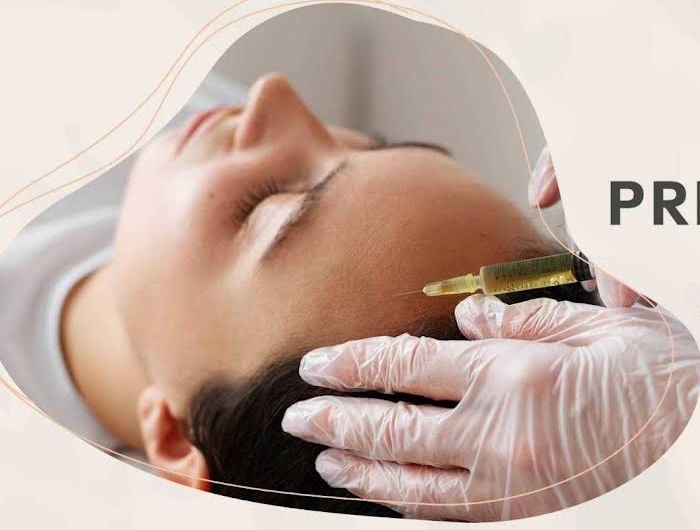
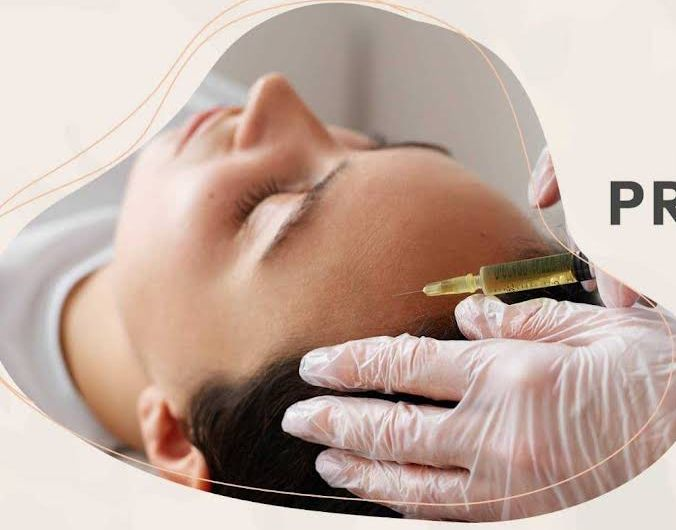
Step 2: treatments section with animated cards and hair patch before/after

diff --git a/index.html b/index.html
@@ -67,14 +67,32 @@ h1,h2,h3{font-family:var(--serif);font-weight:500;line-height:1.08;margin:0}
 .feat{display:grid;grid-template-columns:1fr 1fr;gap:1rem}
 .feat div{background:#fff;border:1px solid var(--line);border-radius:18px;padding:1.1rem 1.2rem;transition:.3s}.feat div:hover{transform:translateY(-4px);border-color:var(--mag);box-shadow:0 18px 34px -24px rgba(194,20,123,.6)}
 .feat b{display:block;font-family:var(--serif);font-size:1.12rem;font-weight:600;margin-bottom:.15rem}.feat span{font-size:.86rem;color:var(--mut)}
+/* treatments */
+.svh{display:flex;justify-content:space-between;align-items:end;gap:2rem;flex-wrap:wrap;margin-bottom:2.6rem}.svh p{color:var(--mut);max-width:380px;margin:0}
+.grid{display:grid;grid-template-columns:repeat(6,1fr);gap:1.2rem}
+.svc{position:relative;display:block;grid-column:span 2;min-height:380px;border-radius:26px;overflow:hidden;color:#fff;isolation:isolate;box-shadow:0 30px 50px -36px rgba(42,15,34,.6);transition:transform .5s cubic-bezier(.2,.8,.2,1),box-shadow .5s}
+.svc.w{grid-column:span 4}.svc:hover{transform:translateY(-8px);box-shadow:0 40px 60px -34px rgba(194,20,123,.55)}
+.svc img{position:absolute;inset:0;width:100%;height:100%;object-fit:cover;z-index:-2;transition:transform 1.1s cubic-bezier(.2,.8,.2,1)}.svc:hover img{transform:scale(1.09)}
+.svc::before{content:"";position:absolute;inset:0;z-index:-1;background:linear-gradient(to top,rgba(30,10,24,.92) 6%,rgba(30,10,24,.35) 55%,transparent)}
+.ov{position:absolute;left:0;right:0;bottom:0;padding:1.6rem}.ov .n{font-family:var(--serif);font-style:italic;color:#f3a6cf;font-size:1rem}
+.ov h3{font-size:1.7rem;margin:.15rem 0 .4rem}.ov p{margin:0 0 .9rem;font-size:.92rem;color:#eadbe3;max-width:360px}
+.go{display:inline-flex;gap:.5rem;font-weight:600;font-size:.88rem;border-bottom:1.5px solid var(--mag2);padding-bottom:2px}.go::after{content:"→";transition:transform .3s}.svc:hover .go::after{transform:translateX(6px)}
+.chip{position:absolute;top:1.1rem;right:1.1rem;background:#fff;color:var(--mag);font-weight:600;font-size:.8rem;padding:.4rem .85rem;border-radius:999px}
+.patch{grid-column:1/-1;display:grid;grid-template-columns:1.1fr 1fr;background:var(--plum);color:#fff;border-radius:26px;overflow:hidden;transition:transform .5s,box-shadow .5s}.patch:hover{transform:translateY(-6px);box-shadow:0 40px 60px -34px rgba(194,20,123,.5)}
+.patch .tx{padding:2.6rem}.patch h3{font-size:2rem;margin:.3rem 0 .7rem}.patch p{color:#e4cfdb;max-width:400px;margin:0 0 1.2rem}
+.patch ul{list-style:none;padding:0;margin:0 0 1.5rem;display:flex;gap:.6rem;flex-wrap:wrap}.patch li{border:1px solid rgba(255,255,255,.28);border-radius:999px;padding:.3rem .85rem;font-size:.82rem}
+.ba{display:grid;grid-template-columns:1fr 1fr;gap:3px;position:relative}.ba figure{margin:0;position:relative;overflow:hidden}.ba img{width:100%;height:100%;object-fit:cover;min-height:300px;transition:transform 1s}.patch:hover .ba img{transform:scale(1.06)}
+.ba figcaption{position:absolute;left:.8rem;bottom:.8rem;background:rgba(255,255,255,.92);color:var(--ink);font-size:.74rem;font-weight:600;padding:.25rem .7rem;border-radius:999px}
+.note{margin:1.4rem 0 0;font-size:.82rem;color:var(--mut)}
 /* footer stub */
 .foot{background:var(--plum);color:#e9d3df;padding:2.2rem 0;font-size:.92rem}.foot .wrap{display:flex;flex-wrap:wrap;gap:.6rem 2rem;justify-content:space-between}.foot a{color:#fff}
 /* reveal */
 .rv{opacity:0;transform:translateY(28px);transition:opacity .9s,transform .9s cubic-bezier(.2,.8,.2,1)}.rv.in{opacity:1;transform:none}.d1{transition-delay:.12s}.d2{transition-delay:.24s}
-@media(max-width:900px){
+@media(max-width:900px){.grid{grid-template-columns:1fr 1fr}.svc,.svc.w{grid-column:span 1;min-height:340px}.svc.w{grid-column:1/-1}.patch{grid-template-columns:1fr}.patch .tx{padding:2rem 1.6rem}
 .burger{display:block}.menu{position:absolute;top:80px;left:0;right:0;background:var(--bg);flex-direction:column;align-items:stretch;gap:0;padding:.5rem 1.25rem 1.3rem;border-bottom:1px solid var(--line);display:none}
 .menu.o{display:flex}.menu a:not(.btn){padding:.95rem 0;border-bottom:1px solid var(--line)}.menu .btn{margin-top:1rem;justify-content:center}
 .hero .wrap,.about .wrap{grid-template-columns:1fr;gap:2.6rem}.hero{padding:2rem 0 3.5rem}.visual{width:min(360px,86%)}.c1{left:-1rem}.c2{right:-.8rem}.sec{padding:4rem 0}.about .photo{order:2}}
+@media(max-width:560px){.grid{grid-template-columns:1fr}.svc.w{grid-column:auto}}
 @media(max-width:480px){.feat{grid-template-columns:1fr}.cta .btn{flex:1 1 100%;justify-content:center}.nav img{height:52px}}
 @media(prefers-reduced-motion:reduce){*{animation:none!important;transition:none!important}.rv{opacity:1;transform:none}.hero h1 span b{transform:none}}
 </style>
@@ -83,7 +101,7 @@ h1,h2,h3{font-family:var(--serif);font-weight:500;line-height:1.08;margin:0}
 <header class="nav" id="nav"><div class="wrap">
 <a href="#top" aria-label="VP Hair Transplant &amp; Cosmetic Center"><img src="assets/logo.png" alt="VP Hair Transplant &amp; Cosmetic Center logo"></a>
 <button class="burger" id="bg" aria-label="Menu" aria-expanded="false"><i></i><i></i></button>
-<nav class="menu" id="mn"><a href="#about">About</a><a href="#contact">Contact</a><a class="btn pri" href="https://wa.me/918824650583?text=Hello%20VP%20Hair%20Transplant%2C%20I%20would%20like%20to%20book%20a%20consultation." target="_blank" rel="noopener">Book consultation</a></nav>
+<nav class="menu" id="mn"><a href="#treatments">Treatments</a><a href="#about">About</a><a href="#contact">Contact</a><a class="btn pri" href="https://wa.me/918824650583?text=Hello%20VP%20Hair%20Transplant%2C%20I%20would%20like%20to%20book%20a%20consultation." target="_blank" rel="noopener">Book consultation</a></nav>
 </div></header>
 
 <main id="top">
@@ -110,6 +128,19 @@ h1,h2,h3{font-family:var(--serif);font-weight:500;line-height:1.08;margin:0}
 <span>Hair Transplant</span><span>PRP Hair Therapy</span><span>Laser Hair Removal</span><span>Skin Care Laser</span><span>Non-Surgical Hair Patch</span><span>Hair Fall Treatment</span>
 <span>Hair Transplant</span><span>PRP Hair Therapy</span><span>Laser Hair Removal</span><span>Skin Care Laser</span><span>Non-Surgical Hair Patch</span><span>Hair Fall Treatment</span>
 </div></div>
+
+<section class="sec" id="treatments"><div class="wrap">
+<div class="svh rv"><div><span class="eyebrow">Our treatments</span><h2>Hair and skin care,<br><em>all under one roof.</em></h2></div><p>From hair transplant to laser skin care, every treatment starts with a conversation about what you want to achieve.</p></div>
+<div class="grid">
+<a class="svc w rv" href="https://wa.me/918824650583?text=Hello,%20I%20would%20like%20to%20know%20more%20about%20hair%20transplant." target="_blank" rel="noopener"><img src="assets/clinic-room.jpg" alt="Hair transplant procedure in the clinic operation theatre" loading="lazy"><div class="ov"><span class="n">01</span><h3>Hair Transplant</h3><p>Advanced hair transplant using laser technology, performed by skilled doctors.</p><span class="go">Enquire on WhatsApp</span></div></a>
+<a class="svc rv" href="https://wa.me/918824650583?text=Hello,%20I%20would%20like%20to%20know%20more%20about%20PRP%20hair%20therapy." target="_blank" rel="noopener"><img src="assets/prp-treatment.jpg" alt="PRP treatment session" loading="lazy"><span class="chip">₹1,999 / session</span><div class="ov"><span class="n">02</span><h3>PRP Hair Therapy</h3><p>A gentle treatment to help restore thinning hair.</p><span class="go">Enquire on WhatsApp</span></div></a>
+<a class="svc rv" href="https://wa.me/918824650583?text=Hello,%20I%20would%20like%20to%20know%20more%20about%20laser%20hair%20removal." target="_blank" rel="noopener"><img src="assets/laser-removal.jpg" alt="Laser hair removal on the leg" loading="lazy"><div class="ov"><span class="n">03</span><h3>Laser Hair Removal</h3><p>Smooth skin using advanced laser technology.</p><span class="go">Enquire on WhatsApp</span></div></a>
+<a class="svc rv" href="https://wa.me/918824650583?text=Hello,%20I%20would%20like%20to%20know%20more%20about%20skin%20care%20laser%20treatment." target="_blank" rel="noopener"><img src="assets/skin-laser.jpg" alt="Laser skin care treatment" loading="lazy"><div class="ov"><span class="n">04</span><h3>Skin Care Laser</h3><p>Laser treatments to keep your skin fresh and clear.</p><span class="go">Enquire on WhatsApp</span></div></a>
+<a class="svc rv" href="https://wa.me/918824650583?text=Hello,%20I%20would%20like%20to%20know%20more%20about%20hair%20fall%20treatment." target="_blank" rel="noopener"><img src="assets/hair-fall.jpg" alt="Woman with hair fall on a comb" loading="lazy"><div class="ov"><span class="n">05</span><h3>Hair Fall Treatment</h3><p>Hair belongs on your scalp, not your comb. Find out why it falls.</p><span class="go">Enquire on WhatsApp</span></div></a>
+<div class="patch rv"><div class="tx"><span class="n" style="font-family:var(--serif);font-style:italic;color:#f3a6cf">06</span><h3>Non-Surgical Hair Patch</h3><p>A natural-looking option if you want fuller hair without surgery.</p><ul><li>Non-surgical</li><li>Natural look</li></ul><a class="btn pri" href="https://wa.me/918824650583?text=Hello,%20I%20would%20like%20to%20know%20more%20about%20the%20non-surgical%20hair%20patch." target="_blank" rel="noopener">Enquire on WhatsApp</a></div><div class="ba"><figure><img src="assets/patch-before.jpg" alt="Before hair patch" loading="lazy"><figcaption>Before</figcaption></figure><figure><img src="assets/patch-after.jpg" alt="After hair patch" loading="lazy"><figcaption>After</figcaption></figure></div></div>
+</div>
+<p class="note">PRP price is the current offer and may change. Results vary from person to person.</p>
+</div></section>
 
 <section class="sec about" id="about"><div class="wrap">
 <div class="photo rv"><img src="assets/clinic-room.jpg" alt="Doctors performing a procedure in the clinic's operation theatre" loading="lazy"><span class="tag">Our operation theatre</span></div>
